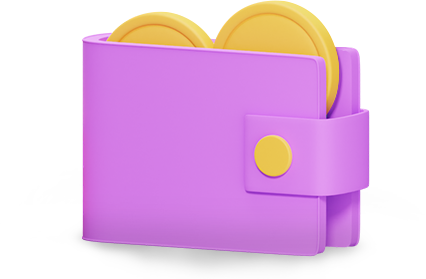
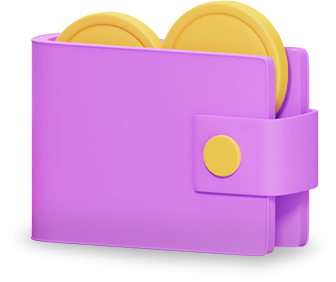
바꾸기

Changed region(s): [[0.0595, 0.0, 0.9524, 0.9462], [0.5357, 0.0287, 0.5655, 0.0573]]

diff --git a/pub/resource/html/BFXM/BFXM03/BFXM0305010.html b/pub/resource/html/BFXM/BFXM03/BFXM0305010.html
@@ -18,7 +18,7 @@
     .fx-service__keyvisual--crosscurrency .icon-moon {display:inline-block;width:0.5rem;height:0.625rem;margin-right:0.3rem;background:url(../../../../resource/images/fxmarket/icon_moon_yellow2.png) no-repeat 0 0 / 100%;}
     .fx-keyvisual__keytxt .color-purple {color:#a35aef;}
     .ani-wallet-box {display:block;margin-left:1rem;}
-    .ani-wallet {display:block;width:8.875rem;height:5.813rem;margin:4rem auto 0;background:url(../../../../resource/images/fxmarket/img_crosscurrency_wallet.png) no-repeat 0 0 / 100%;}
+    .ani-wallet {display:block;width:7rem;height:5.875rem;margin:4rem auto 0;background:url(../../../../resource/images/fxmarket/img_crosscurrency_wallet.png) no-repeat 0 0 / 100%;}
     .ani-circle {position:absolute;top:-2rem;left:50%;width:6.375rem;height:6.375rem;margin-left:-5rem;background:url(../../../../resource/images/fxmarket/img_crosscurrency_circle.png) no-repeat 0 0 / 100%;
         -webkit-animation-name: anicircle;
         animation-name: anicircle;
